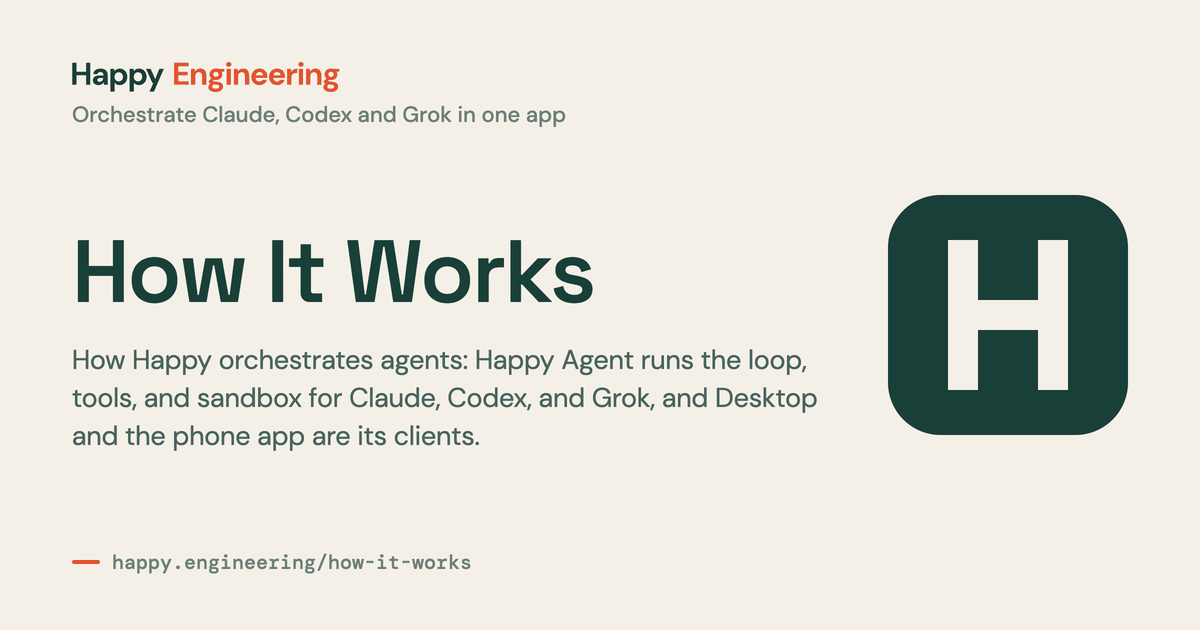
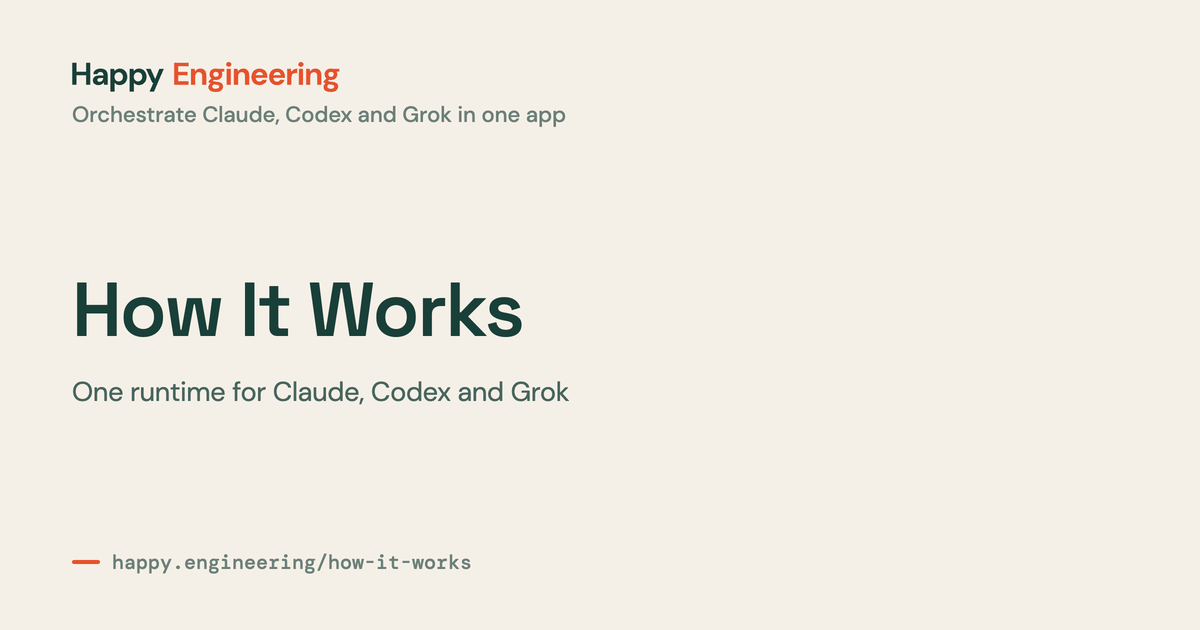
Link-preview cards: pages without a figure lose the H tile for a full-width title and a one-line selling point
- cardLine in src/documents.ts: four to eight words, benefit first, for each of the 15 desktop
  docs without a figure; cards.py stops if one is missing or wraps.
- Cards with a figure are unchanged.
- SOCIAL_IMAGE_VERSION 3 and ?v=3 on the homepage image, so X, Slack and LinkedIn refetch.
- DESIGN.md: the no-figure card rule and when to bump the version.

Changed region(s): [[0.0617, 0.3619, 0.6783, 0.7238], [0.74, 0.3016, 0.9558, 0.6937]]

diff --git a/src/documents.ts b/src/documents.ts
@@ -23,6 +23,11 @@ export interface DocumentEntry {
   hidden?: boolean
   /** An essay: rendered with captioned figures, floats, and the pig in its bullet (src/DocumentPages.tsx). */
   essay?: boolean
+  /**
+   * A page without a figure: what its link-preview card says under the title, in place of the
+   * description. Four to eight words, benefit first, no closing period (notes/og/cards.py).
+   */
+  cardLine?: string
 }
 
 const documentSources = import.meta.glob(
@@ -189,6 +194,7 @@ const desktopDocuments: DocumentDefinition[] = [
     sourcePath: '/content/desktop/index.mdx',
     title: 'Welcome',
     description: 'Happy is an open-source harness for orchestrating Claude, Codex, and Grok agents in one desktop app, reusing your subscriptions: what you get, where to start.',
+    cardLine: 'Free, open source, on the subscriptions you have',
     group: 'Start here',
   },
   {
@@ -197,6 +203,7 @@ const desktopDocuments: DocumentDefinition[] = [
     title: 'Quick Start',
     pageTitle: 'Quick Start: Install Happy Desktop and Run Your First Agent',
     description: 'Download Happy Desktop, open a project, make one change, and pair your phone.',
+    cardLine: 'From download to your first agent',
     group: 'Start here',
   },
   {
@@ -213,6 +220,7 @@ const desktopDocuments: DocumentDefinition[] = [
     title: 'How It Works',
     pageTitle: 'How Happy Works: One Agent Runtime for Claude, Codex and Grok',
     description: 'How Happy orchestrates agents: Happy Agent runs the loop, tools, and sandbox for Claude, Codex, and Grok, and Desktop and the phone app are its clients.',
+    cardLine: 'One runtime for Claude, Codex and Grok',
     group: 'Start here',
   },
   {
@@ -239,6 +247,7 @@ const desktopDocuments: DocumentDefinition[] = [
     title: 'Models & Subscriptions',
     pageTitle: 'Use Claude, Codex and Grok Subscriptions in One App — Happy',
     description: 'Run Claude, Codex, and Grok side by side, reusing the subscriptions you already pay for: subagents on any model, several accounts per provider, and quotas.',
+    cardLine: 'Every subscription you pay for, in one app',
     group: 'Features',
   },
   {
@@ -247,6 +256,7 @@ const desktopDocuments: DocumentDefinition[] = [
     title: 'Permissions & Sandbox',
     pageTitle: 'Permissions and OS Sandbox for Claude Code and Codex — Happy',
     description: 'The four permission modes, automatic review in Auto, and what the sandbox enforces.',
+    cardLine: 'One sandbox for every agent and model',
     group: 'Features',
   },
   {
@@ -263,6 +273,7 @@ const desktopDocuments: DocumentDefinition[] = [
     title: 'Projects & Workspaces',
     pageTitle: 'Projects and Git Worktree Workspaces for Coding Agents — Happy',
     description: 'Projects are folders, workspaces are Git worktrees, and parallel work stays apart.',
+    cardLine: 'Parallel work, each on its own branch',
     group: 'Features',
   },
   {
@@ -271,6 +282,7 @@ const desktopDocuments: DocumentDefinition[] = [
     title: 'Agents That Never Die',
     pageTitle: 'Coding Agents That Survive Restarts — Happy',
     description: 'Agent sessions that survive restarts: subagents on other models, agent-to-agent messages, scheduled messages, the Inbox, and presence.',
+    cardLine: 'Subagents on any model, talking to each other',
     group: 'Features',
   },
   {
@@ -279,6 +291,7 @@ const desktopDocuments: DocumentDefinition[] = [
     title: 'Mobile Access',
     pageTitle: 'Check On Your Coding Agents from Your Phone — Happy',
     description: 'Pair your phone once, then watch and steer every session with end-to-end encryption.',
+    cardLine: 'Pair once, then follow every session',
     group: 'Features',
   },
   {
@@ -295,6 +308,7 @@ const desktopDocuments: DocumentDefinition[] = [
     title: 'Skills & MCP',
     pageTitle: 'Skills and MCP Servers for Claude, Codex and Grok — Happy',
     description: 'Give coding agents skills, Markdown instructions loaded on demand, and tools from MCP servers, the same for Claude, Codex, and Grok.',
+    cardLine: 'One set of skills for every model',
     group: 'Features',
   },
   {
@@ -303,6 +317,7 @@ const desktopDocuments: DocumentDefinition[] = [
     title: 'Using the Terminal',
     pageTitle: 'Happy Without the Desktop App: the CLI and Happy Terminal',
     description: 'Keep Claude Code and Codex in your terminal and reach them from your phone.',
+    cardLine: 'Your agents, without the desktop app',
     group: 'Guides',
   },
   {
@@ -311,6 +326,7 @@ const desktopDocuments: DocumentDefinition[] = [
     title: 'Configuration',
     pageTitle: 'Configure Happy with happy.toml: Permissions, Sandbox, Docker',
     description: 'Configure Happy in happy.toml: default permission mode, network allowlist, workspace setup commands, provider accounts, and Docker sessions.',
+    cardLine: 'Set your defaults once, per machine or repo',
     group: 'Guides',
   },
   {
@@ -328,6 +344,7 @@ const desktopDocuments: DocumentDefinition[] = [
     title: 'Happy Desktop vs Buzz',
     pageTitle: 'Happy Desktop vs Buzz — Happy',
     description: 'Where Happy Desktop and Block\'s Buzz agree, and where the designs split.',
+    cardLine: 'A harness for agents, or a chat with them',
     group: 'Comparisons',
     hidden: true,
   },
@@ -337,6 +354,7 @@ const desktopDocuments: DocumentDefinition[] = [
     title: 'Desktop App for Claude Code & Codex',
     pageTitle: 'Open Source Desktop App for Claude Code, Codex & Grok — Happy',
     description: 'Happy Desktop is a free, MIT-licensed app for orchestrating Claude Code, Codex, and Grok agents on macOS, Windows, and Linux, reusing your subscriptions.',
+    cardLine: 'Free on macOS, Windows and Linux',
     group: 'Comparisons',
   },
   {
@@ -345,6 +363,7 @@ const desktopDocuments: DocumentDefinition[] = [
     title: 'Claude Code on Your Phone',
     pageTitle: 'Claude Code & Codex Mobile App for iPhone and Android — Happy',
     description: 'The Happy phone app for iPhone and Android: steer the Claude Code, Codex, and Grok agents Happy runs on your computer, end-to-end encrypted. Free, open source.',
+    cardLine: 'Free on iPhone and Android, end-to-end encrypted',
     group: 'Comparisons',
   },
   {
@@ -353,6 +372,7 @@ const desktopDocuments: DocumentDefinition[] = [
     title: 'Happy vs Remote Control',
     pageTitle: 'Claude Code Remote Control vs Happy — An Open Source Alternative',
     description: 'Claude Code Remote Control vs Happy for steering coding agents from your phone: models, encryption, sessions, setup, and where each one is better.',
+    cardLine: 'An open-source harness for every model',
     group: 'Comparisons',
   },
   {

diff --git a/index.html b/index.html
@@ -23,7 +23,7 @@
     <meta property="og:site_name" content="Happy Engineering" />
     <meta property="og:title" content="Any Model. Your Subscription. Happy Harness." />
     <meta property="og:description" content="Orchestrate Claude, Codex and Grok in one app. Happy is an open-source harness that reuses the subscriptions you already pay for." />
-    <meta property="og:image" content="https://happy.engineering/og/happy-harness-v25.png?v=2" />
+    <meta property="og:image" content="https://happy.engineering/og/happy-harness-v25.png?v=3" />
     <meta property="og:image:width" content="1200" />
     <meta property="og:image:height" content="630" />
     <meta property="og:image:alt" content="Happy Harness model picker and paired phone, with Orchestrate Claude, Codex and Grok in one app, Free and open source, and 24k GitHub stars." />
@@ -31,7 +31,7 @@
     <meta name="twitter:card" content="summary_large_image" />
     <meta name="twitter:title" content="Any Model. Your Subscription. Happy Harness." />
     <meta name="twitter:description" content="Orchestrate Claude, Codex and Grok in one app. Happy is an open-source harness that reuses the subscriptions you already pay for." />
-    <meta name="twitter:image" content="https://happy.engineering/og/happy-harness-v25.png?v=2" />
+    <meta name="twitter:image" content="https://happy.engineering/og/happy-harness-v25.png?v=3" />
     <meta name="twitter:image:alt" content="Happy Harness model picker and paired phone, with Orchestrate Claude, Codex and Grok in one app, Free and open source, and 24k GitHub stars." />
 
     <link rel="icon" href="/favicon.ico?v=2" sizes="16x16 32x32 48x48" />

diff --git a/src/siteMetadata.ts b/src/siteMetadata.ts
@@ -24,7 +24,7 @@ export const defaultSocialImage = {
  * X, Slack and iMessage cache a preview by its image URL. Bump this after redrawing the
  * cards, so links shared before show the new ones.
  */
-export const SOCIAL_IMAGE_VERSION = 2
+export const SOCIAL_IMAGE_VERSION = 3
 
 /** The absolute og:image and twitter:image URL of a card, with its cache-busting version. */
 export function socialImageUrl(image: Readonly<{ path: string }>) {

diff --git a/notes/og/cards.py b/notes/og/cards.py
@@ -1,7 +1,8 @@
 # Writes public/og/<slug>.png, the 1200x630 link preview of every desktop doc: the
 # Happy Engineering wordmark with the descriptor under it, the page's title and description, its URL, and its
-# figure (the first image on the page) on the right. A page without a figure gets
-# the site's H mark instead. The original CLI docs under /docs/ keep the homepage's card.
+# figure (the first image on the page) on the right. A page without a figure gives the title the
+# full width and puts its cardLine (src/documents.ts) in place of the description. The original
+# CLI docs under /docs/ keep the homepage's card.
 #
 # Run from the repository root after adding or retitling a desktop doc:
 #   python3 notes/og/cards.py            # every desktop doc
@@ -67,7 +68,7 @@ def desktop_documents():
         const markup = m.renderPath(href)
         const article = markup.slice(markup.indexOf('<article'), markup.indexOf('</article>'))
         const figures = [...article.matchAll(/<img [^>]*?src="([^"]+)"[^>]*?alt="([^"]*)"/g)].map(([, src, alt]) => ({ src, alt }))
-        return { href, heading: m.documentHeading(d), description: d.description, card: m.metadataForPath(href).socialImage?.path, figures }
+        return { href, heading: m.documentHeading(d), description: d.description, cardLine: d.cardLine, card: m.metadataForPath(href).socialImage?.path, figures }
       })
       console.log(JSON.stringify(pages))
     """
@@ -94,14 +95,13 @@ def natural_size(path):
 
 
 def figure_markup(page):
-    """The right column: its width and markup. A page without a figure gets the site's H mark."""
+    """The right column: its width and markup, or (0, '') for a page without a figure."""
     figures = page["figures"]
     override = FIGURE_OVERRIDES.get(page["href"])
     if override:
         figures = [f for f in figures if f["src"] == override]
     if not figures:
-        mark = (PUBLIC / "favicon.svg").read_text().replace("<svg ", '<svg width="240" height="240" ', 1)
-        return 240, f'<div class="figure mark">{mark}</div>'
+        return 0, ""
     # Portraits (the Team page): every photo, side by side, with its caption.
     if all(f["src"].endswith(".jpg") for f in figures):
         people = "".join(
@@ -124,7 +124,10 @@ def figure_markup(page):
 
 def card_html(page):
     figure_w, figure = figure_markup(page)
-    copy_w = W - 72 - 56 - 48 - figure_w
+    copy_w = W - 72 - 56 - 48 - figure_w if figure else W - 2 * 72
+    if not figure and not page.get("cardLine"):
+        sys.exit(f"{page['href']} has no figure: give it a cardLine in src/documents.ts")
+    text = page["description"] if figure else page["cardLine"]
     url = f"happy.engineering{page['href']}".rstrip("/")
     wordmark = (PUBLIC / "brand/happy-engineering-inline-light.svg").read_text()
     return f"""<!doctype html><html><head><meta charset="utf-8"><style>
@@ -142,11 +145,11 @@ html, body {{ margin: 0; background: {PAPER}; }}
 h1 {{ margin: 0; font: 600 var(--size, 76px)/1.04 'Space Grotesk', sans-serif; letter-spacing: -.025em; text-wrap: balance; }}
 p {{ margin: 24px 0 0; color: {BODY}; font-size: 27px; line-height: 1.4; text-wrap: pretty;
      display: -webkit-box; -webkit-box-orient: vertical; -webkit-line-clamp: 3; overflow: hidden; }}
+p.line {{ display: block; white-space: nowrap; }}
 .url {{ display: flex; align-items: center; gap: 12px; color: {MUTED}; font: 500 20px/1 'DM Mono', monospace; white-space: nowrap; }}
 .url::before {{ content: ''; width: 28px; height: 4px; border-radius: 2px; background: {ACCENT}; }}
 .figure {{ position: absolute; top: 44px; bottom: 44px; right: 56px; width: {figure_w:.0f}px; display: flex; align-items: center; justify-content: center; }}
 .figure img, .figure svg {{ display: block; }}
-.mark {{ right: 72px; }}
 .people {{ gap: 30px; }}
 .person {{ margin: 0; display: flex; flex-direction: column; align-items: center; gap: 16px; }}
 .person img {{ width: 220px; height: 220px; border-radius: 50%; object-fit: cover; }}
@@ -154,7 +157,7 @@ p {{ margin: 24px 0 0; color: {BODY}; font-size: 27px; line-height: 1.4; text-wr
 </style></head><body><div class="card">
 <div class="copy">
   <div class="wordmark">{wordmark}<div class="descriptor">{DESCRIPTOR}</div></div>
-  <div class="text"><h1>{html.escape(page['heading'])}</h1><p>{html.escape(page['description'])}</p></div>
+  <div class="text"><h1>{html.escape(page['heading'])}</h1><p{'' if figure else ' class="line"'}>{html.escape(text)}</p></div>
   <div class="url">{html.escape(url)}</div>
 </div>
 {figure}
@@ -205,7 +208,9 @@ def main():
             serve.html = card_html(doc)
             page.goto(f"{SITE}/__card", wait_until="load")
             page.evaluate("document.fonts.ready")
-            page.evaluate(FIT, 88 if 'figure mark' in serve.html else 76)
+            page.evaluate(FIT, 76)
+            if page.evaluate("(p => !!p && p.scrollWidth > p.clientWidth)(document.querySelector('p.line'))"):
+                sys.exit(f"{doc['href']}: its cardLine is longer than one line")
             png = page.screenshot(clip={"x": 0, "y": 0, "width": W, "height": H})
             # Drawn at 2x and reduced, so thin diagram strokes stay smooth.
             image = Image.open(io.BytesIO(png)).convert("RGB").resize((W, H), Image.LANCZOS)

diff --git a/DESIGN.md b/DESIGN.md
@@ -93,6 +93,8 @@ The short descriptor is **Orchestrate Claude, Codex and Grok in one app** (`HAPP
   - its chevron at the right end, no taller than the text's capitals.
 - **Metadata.** Each page's title, search title, and description (160 characters at most) live in `src/documents.ts`.
 - **Link preview.** Each desktop doc has its own card, `public/og/<path with dashes>.png`: its title, description, and first figure. After adding a page or changing its title, description, or figure, run `python3 notes/og/cards.py <slug>` and commit the PNG; the build fails without it. The original CLI docs under `/docs/` keep the homepage's card. The description is also the page's meta description and preview text, so it states the capability plainly.
+  - A page without a figure gets no logo tile in its place. Its card keeps the header and the URL line, gives the title the full width, and swaps the description for the page's `cardLine` in `src/documents.ts`: one line of four to eight words, benefit first, no closing period, true to the page. `cards.py` stops if the line is missing or wraps.
+  - After changing cards that are already shared, bump `SOCIAL_IMAGE_VERSION` in `src/siteMetadata.ts` and the `?v=` on the homepage image in `index.html`, so X, Slack, and LinkedIn fetch them again.
 - **The Blog** is the last sidebar group, with no list page. Each post gets a one-word slug you can type from memory: `/workos/`, `/tailcat/`, `/voice/`.
 - **URLs don't break.** `routes.txt` only grows. A shared URL keeps working when its page moves: `/team-sign-in-workos/` redirects to `/workos/`.
 
